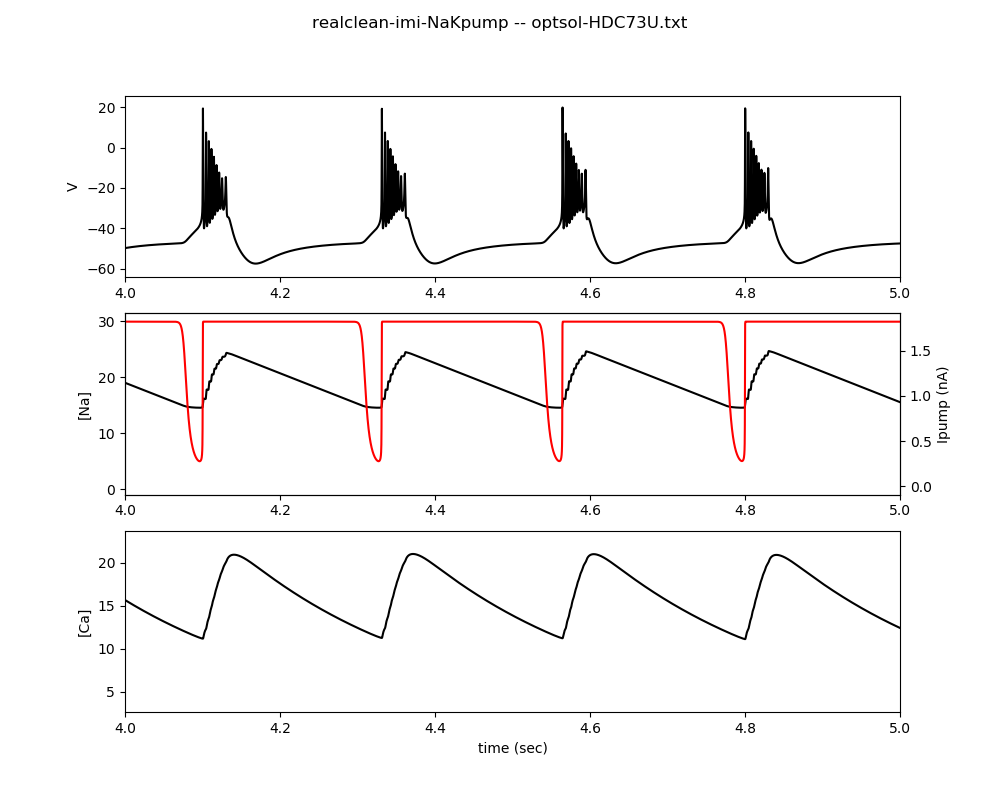
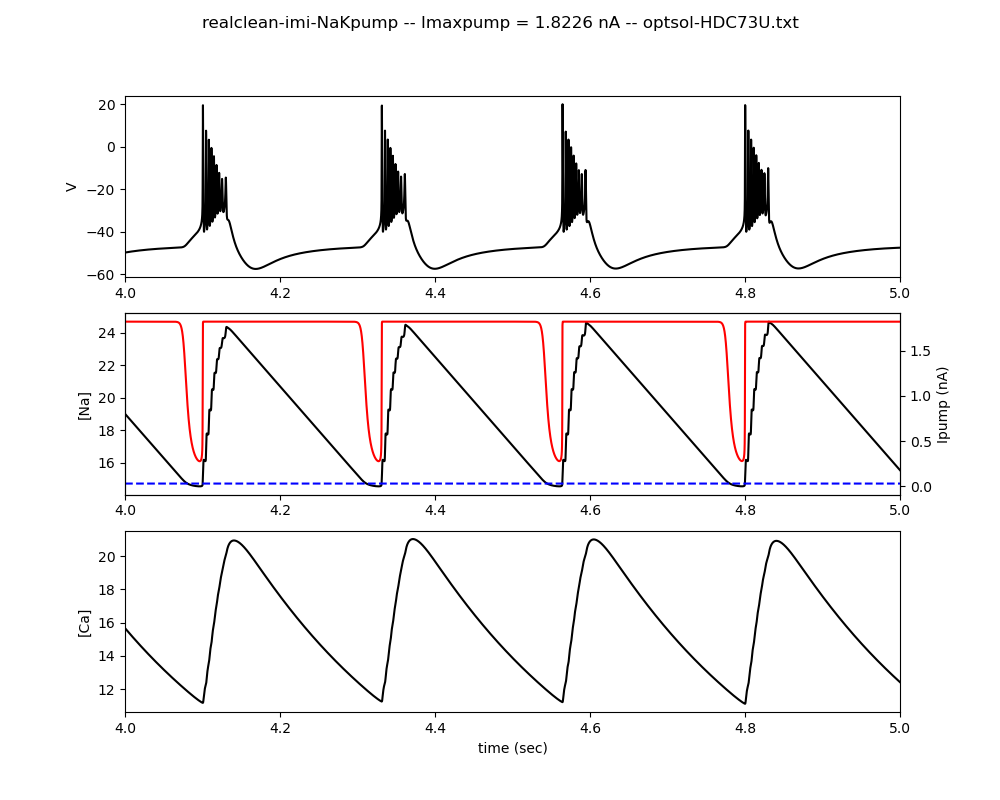
Complete investigation of HDC73U

diff --git a/plotModifiedSolution.py b/plotModifiedSolution.py
@@ -27,7 +27,7 @@ def getIpump(p, sol):
 # alphaFvol = p[43]
 
 # hashname=id_generator()
-hashname='0MDLH0'
+hashname='HDC73U'
 
 pfname='optsol-'+hashname+'.txt'
 p = genfromtxt(pfname)
